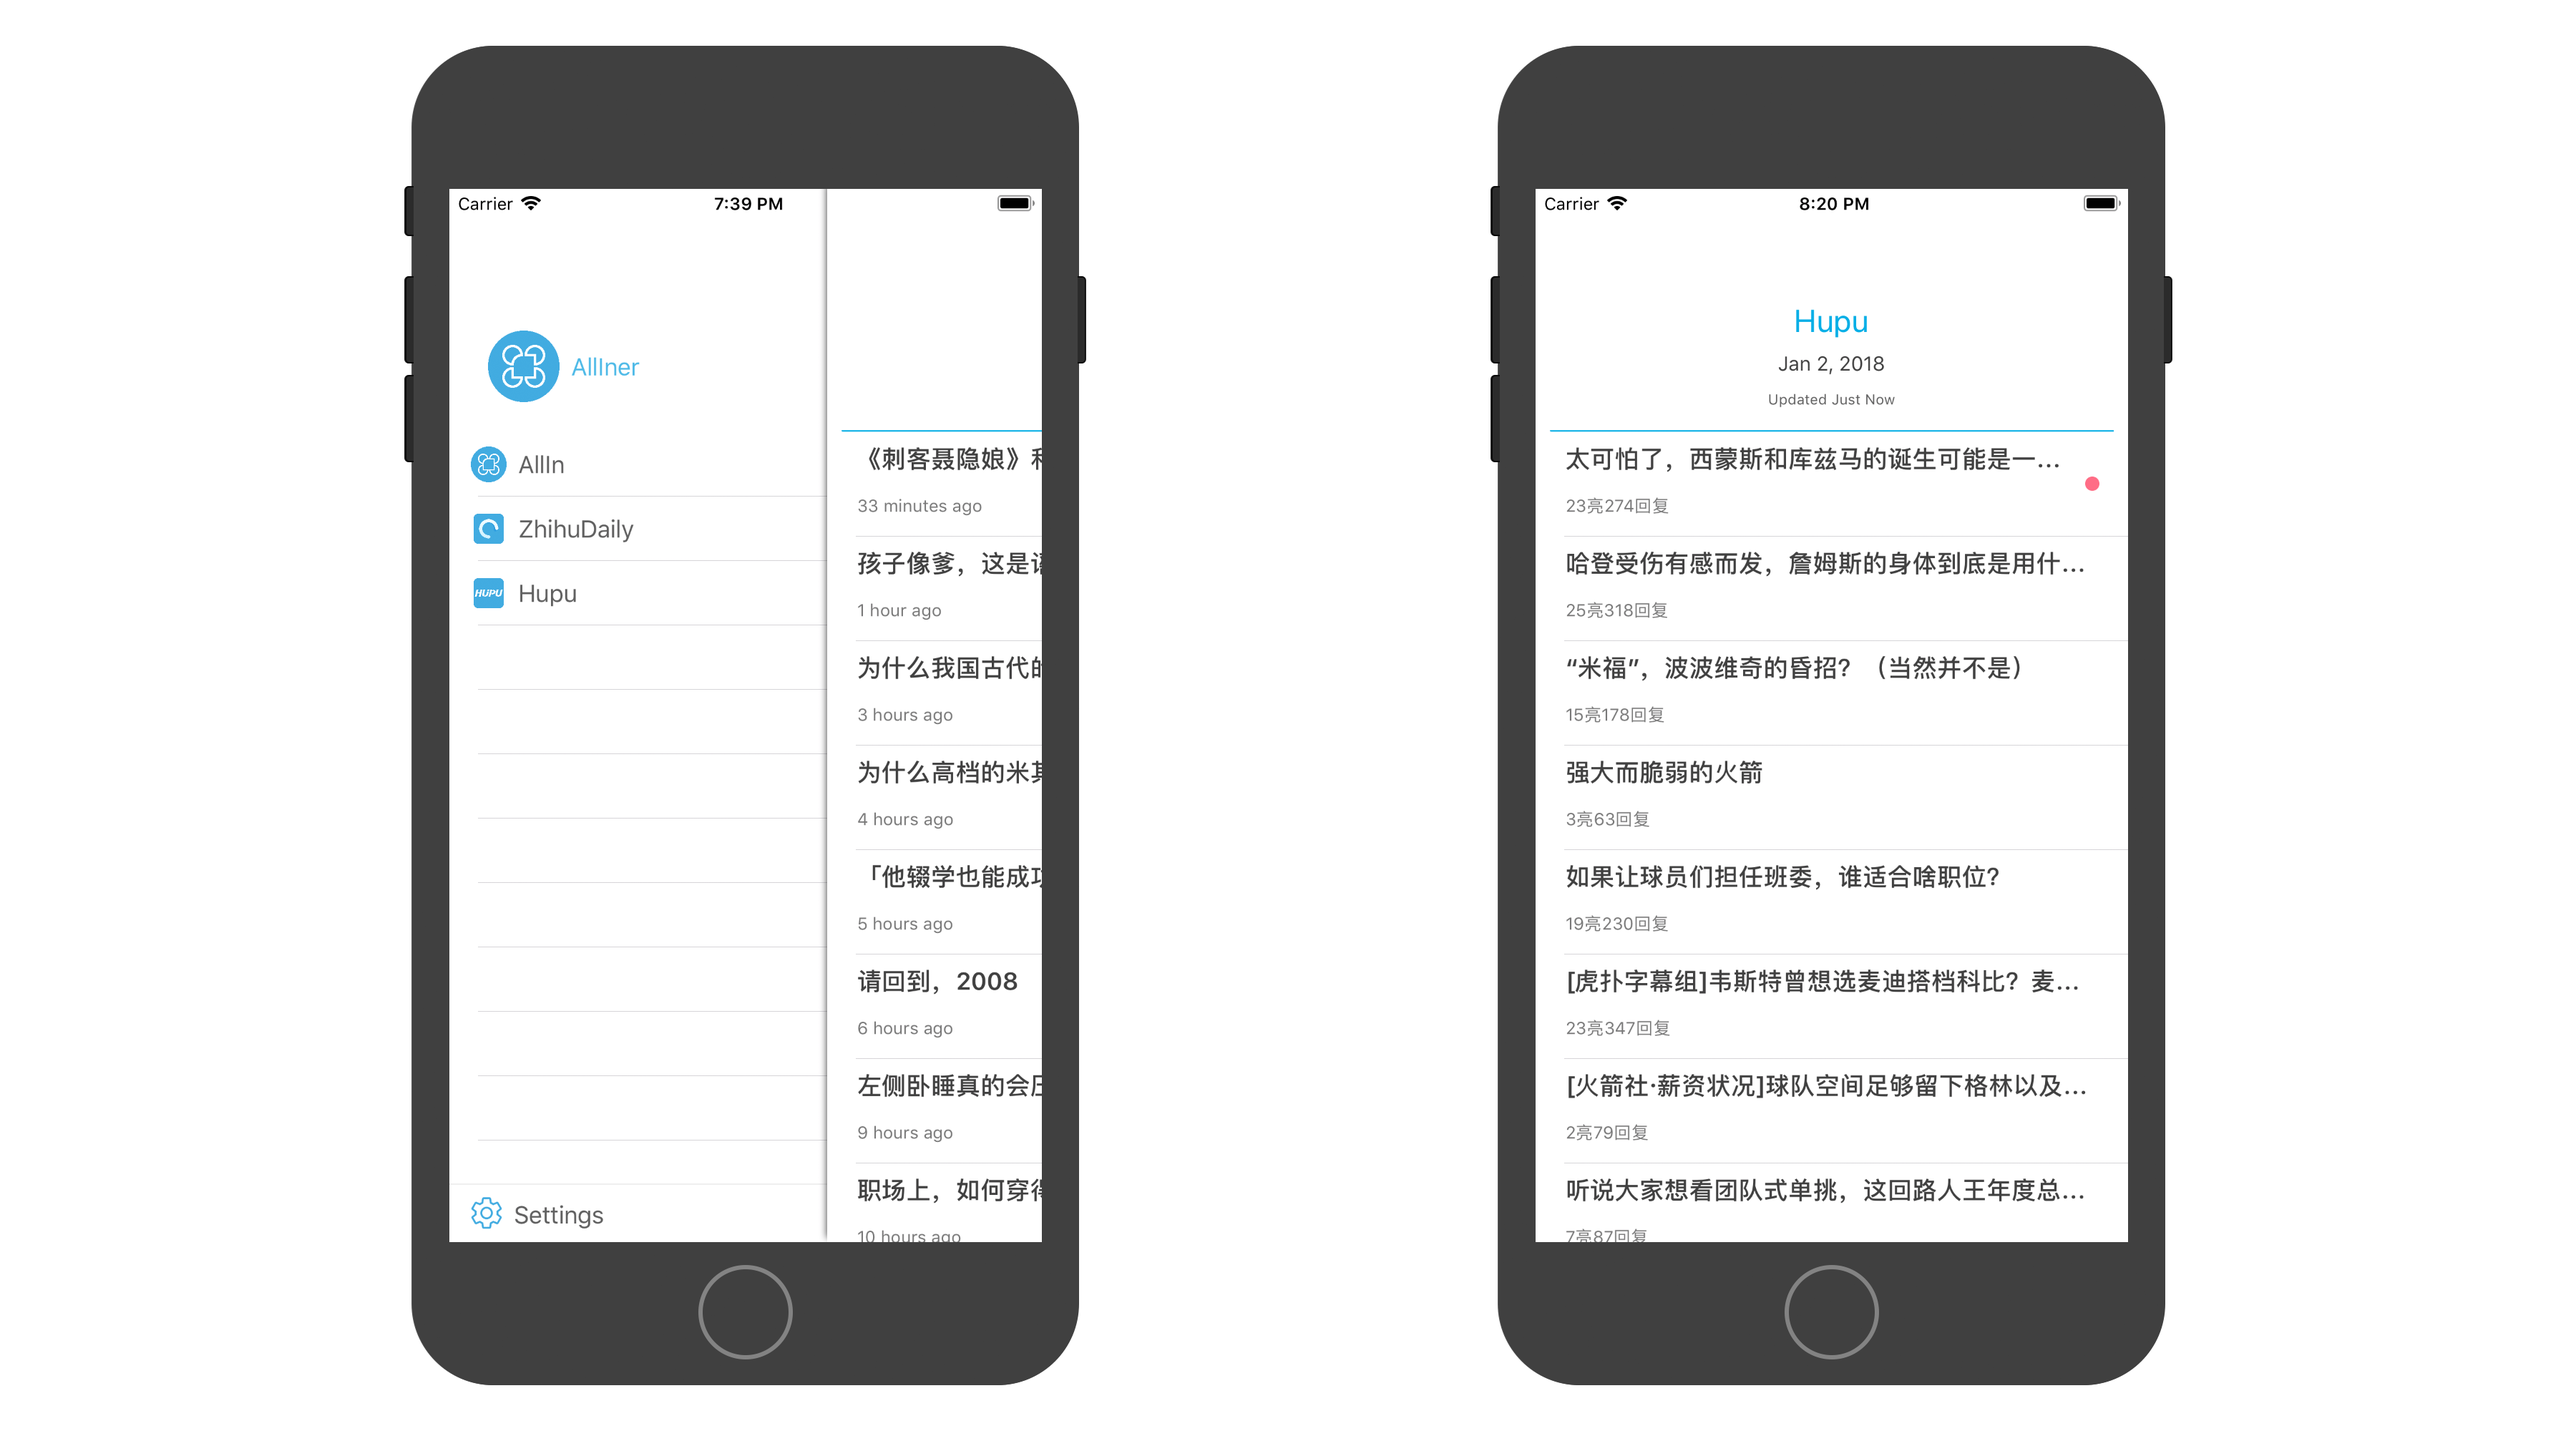
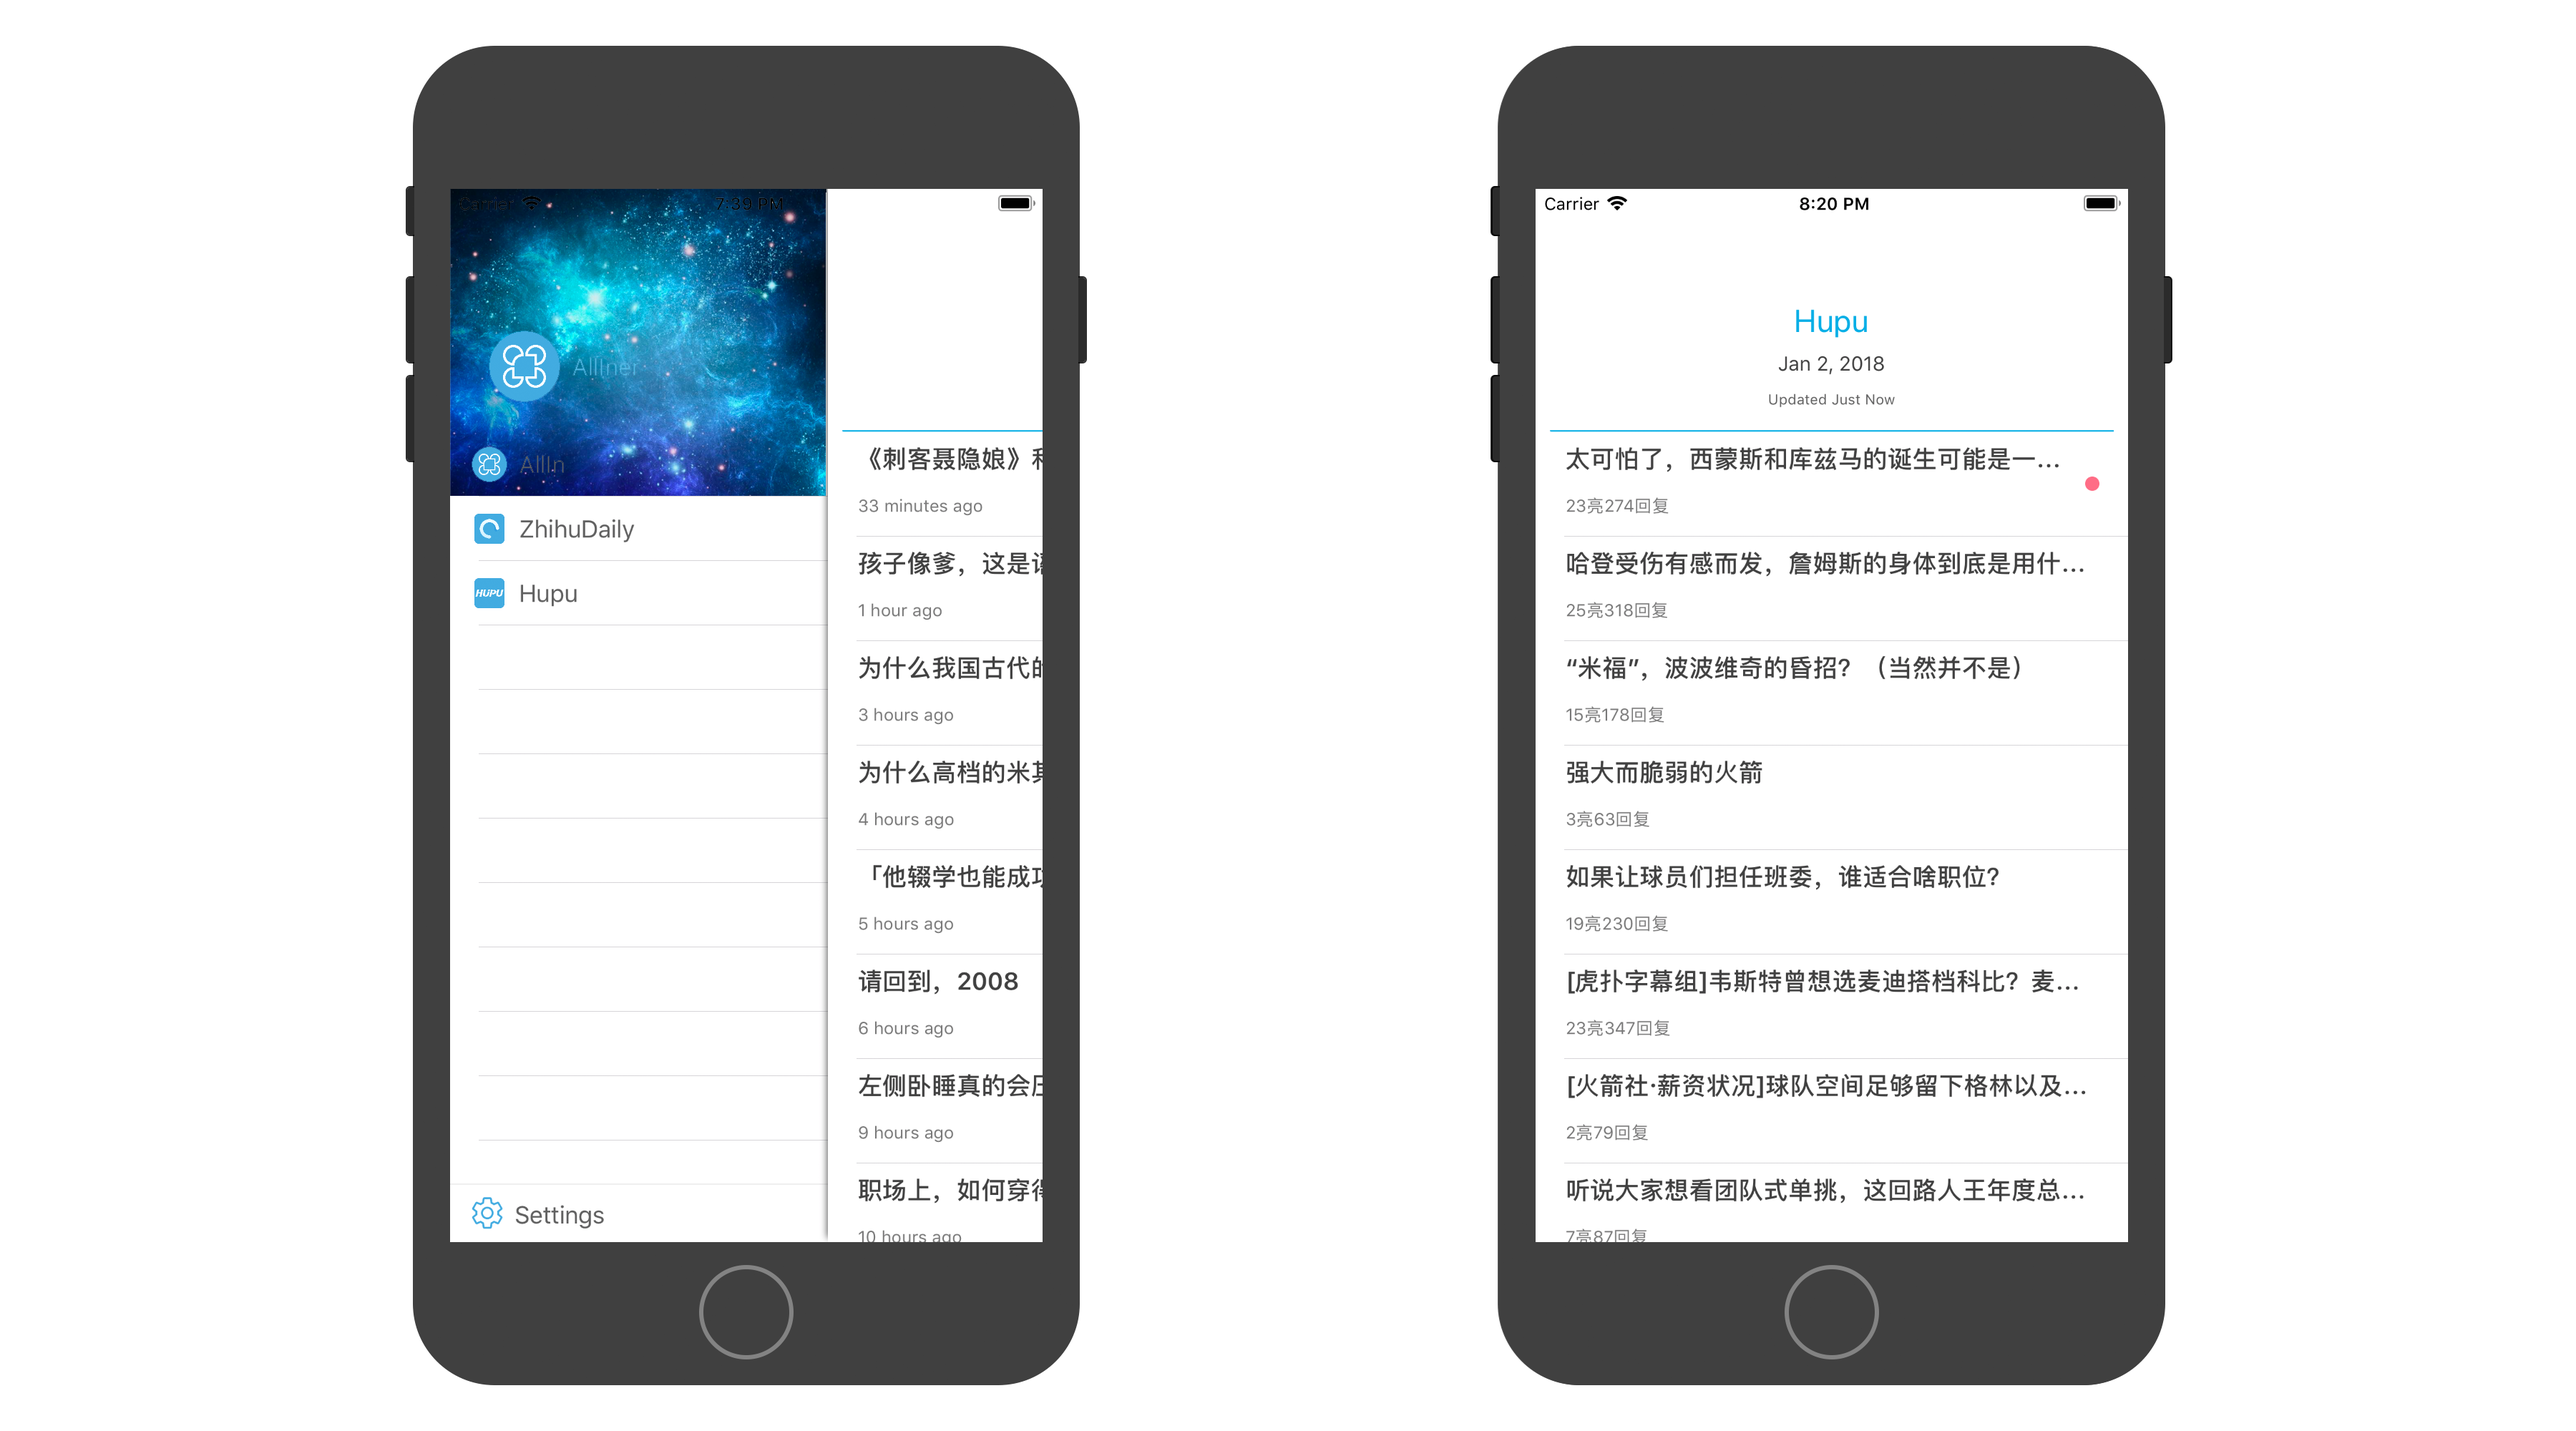
Update and Maybe last push! & Finish temporarily

diff --git a/README.md b/README.md
@@ -7,10 +7,11 @@
 
 AllIn是一款聚合阅读内容的类RSS阅读器，在普通RSS阅读器的基础上，增加了如Hupu这类主流论坛的支持；
 
+![AllIn](https://github.com/challvy/app-2017f-AllIn/raw/master/Screenshots/AllIn.png)
+
+
 **建议使用iPhone8Plus 以获得最佳体验**
 > 就是auto-layout做的不太好，因为许多界面都是代码画的；
-
-![AllIn](https://github.com/challvy/app-2017f-AllIn/raw/master/Screenshots/AllIn.png)
 
 
 ## 功能说明
@@ -36,6 +37,7 @@ AllIn是一款聚合阅读内容的类RSS阅读器，在普通RSS阅读器的基
 ### 信息源选择
 
 * 采用侧滑抽屉的方式进行交互，更为优雅；
+* 点击侧滑抽屉背景，选择个性化背景图；
 
 ![MenuView](https://github.com/challvy/app-2017f-AllIn/raw/master/Screenshots/MenuView.png)
 
